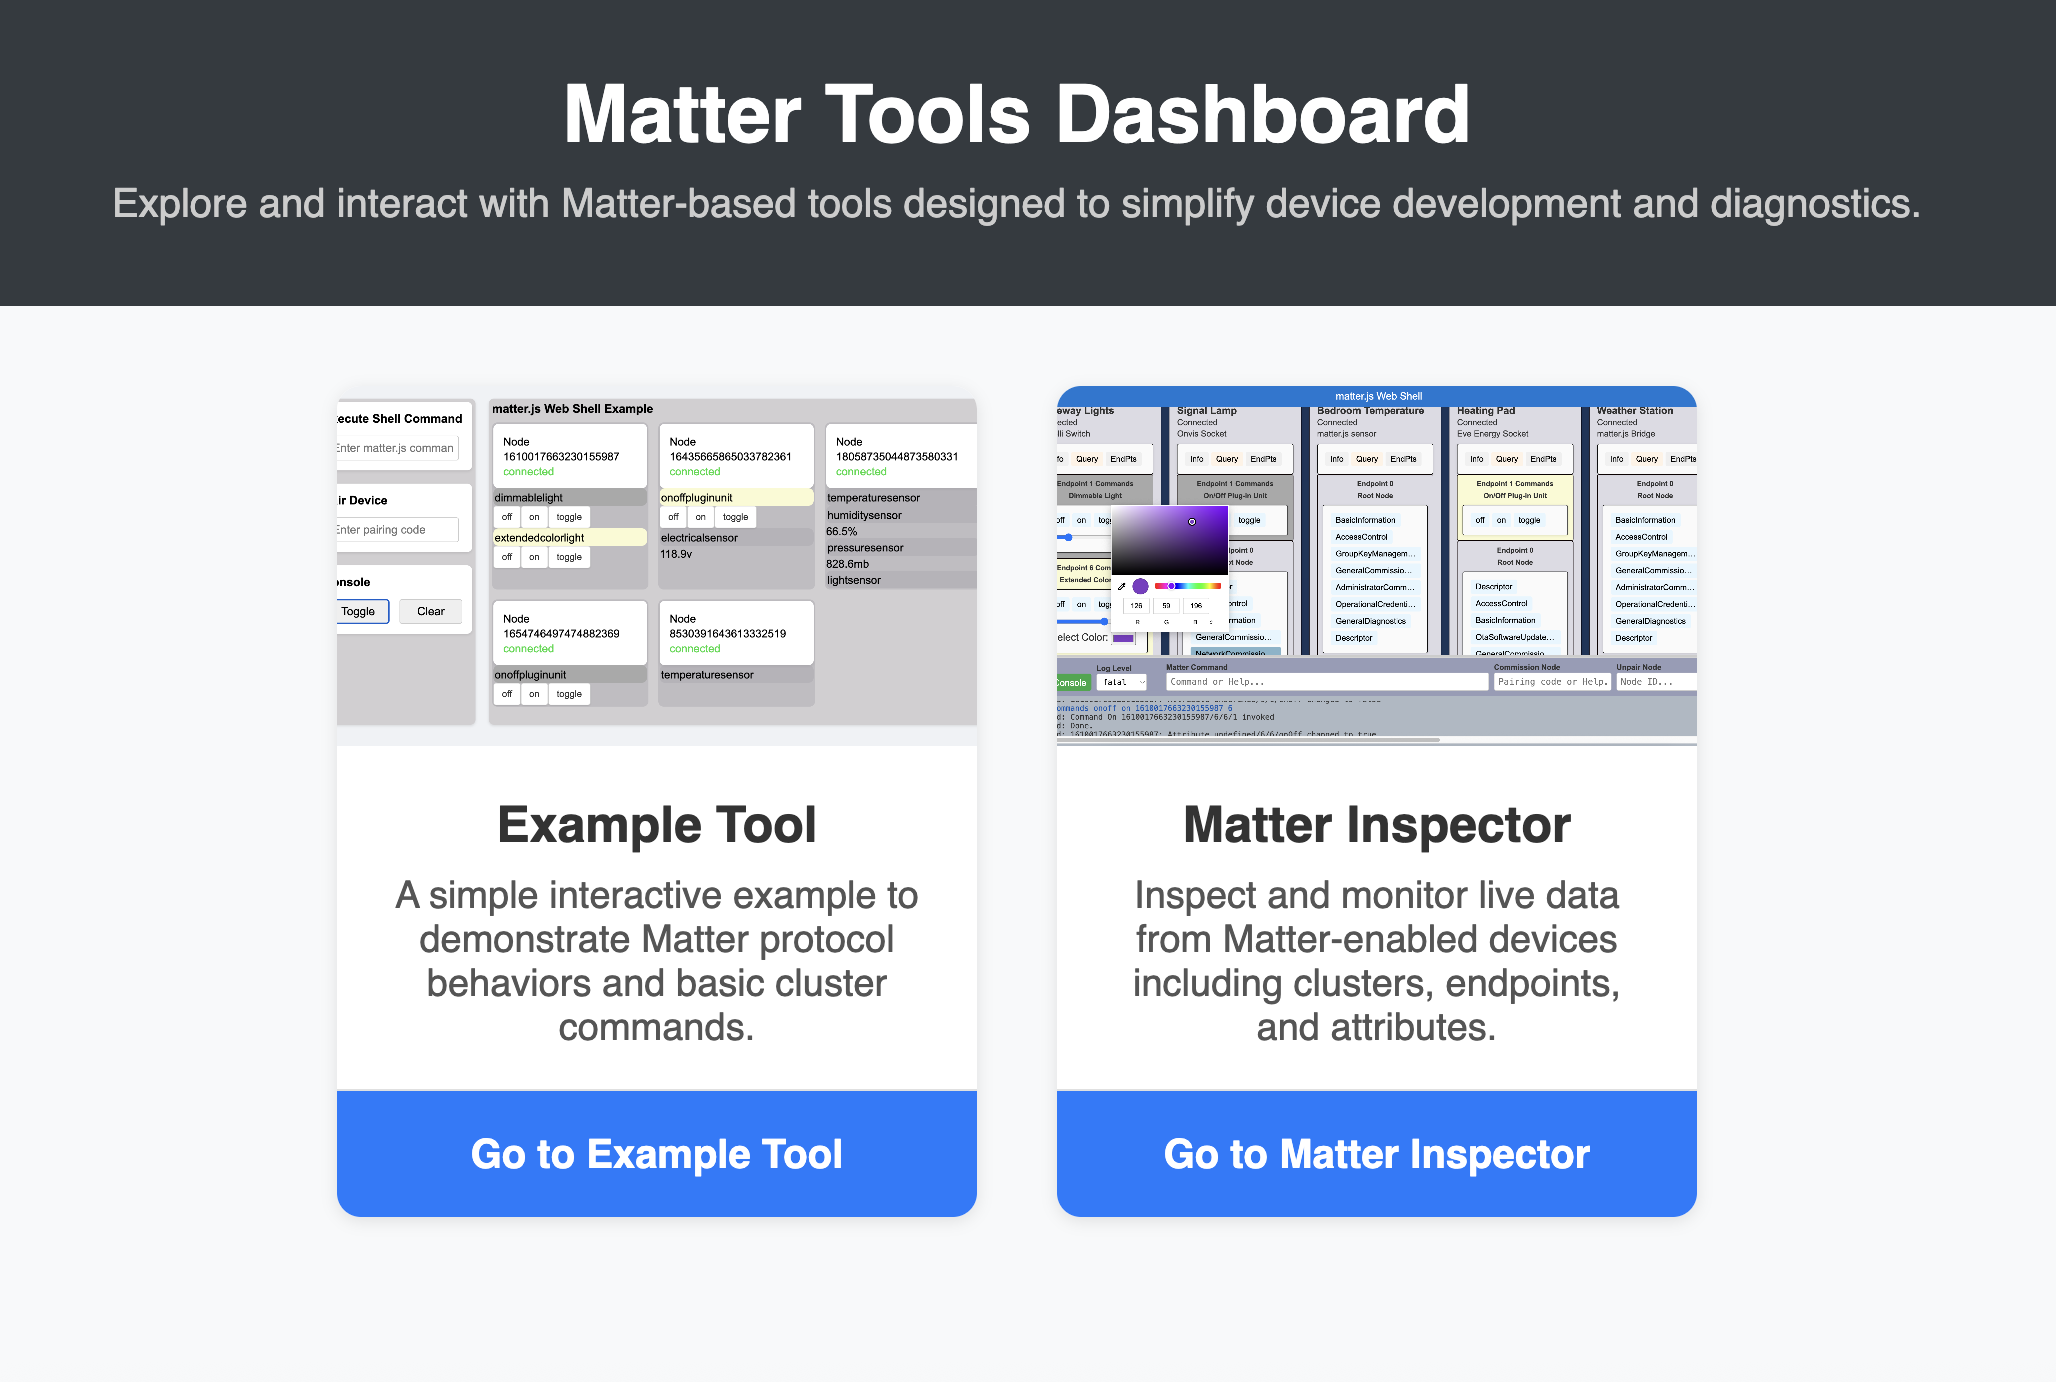
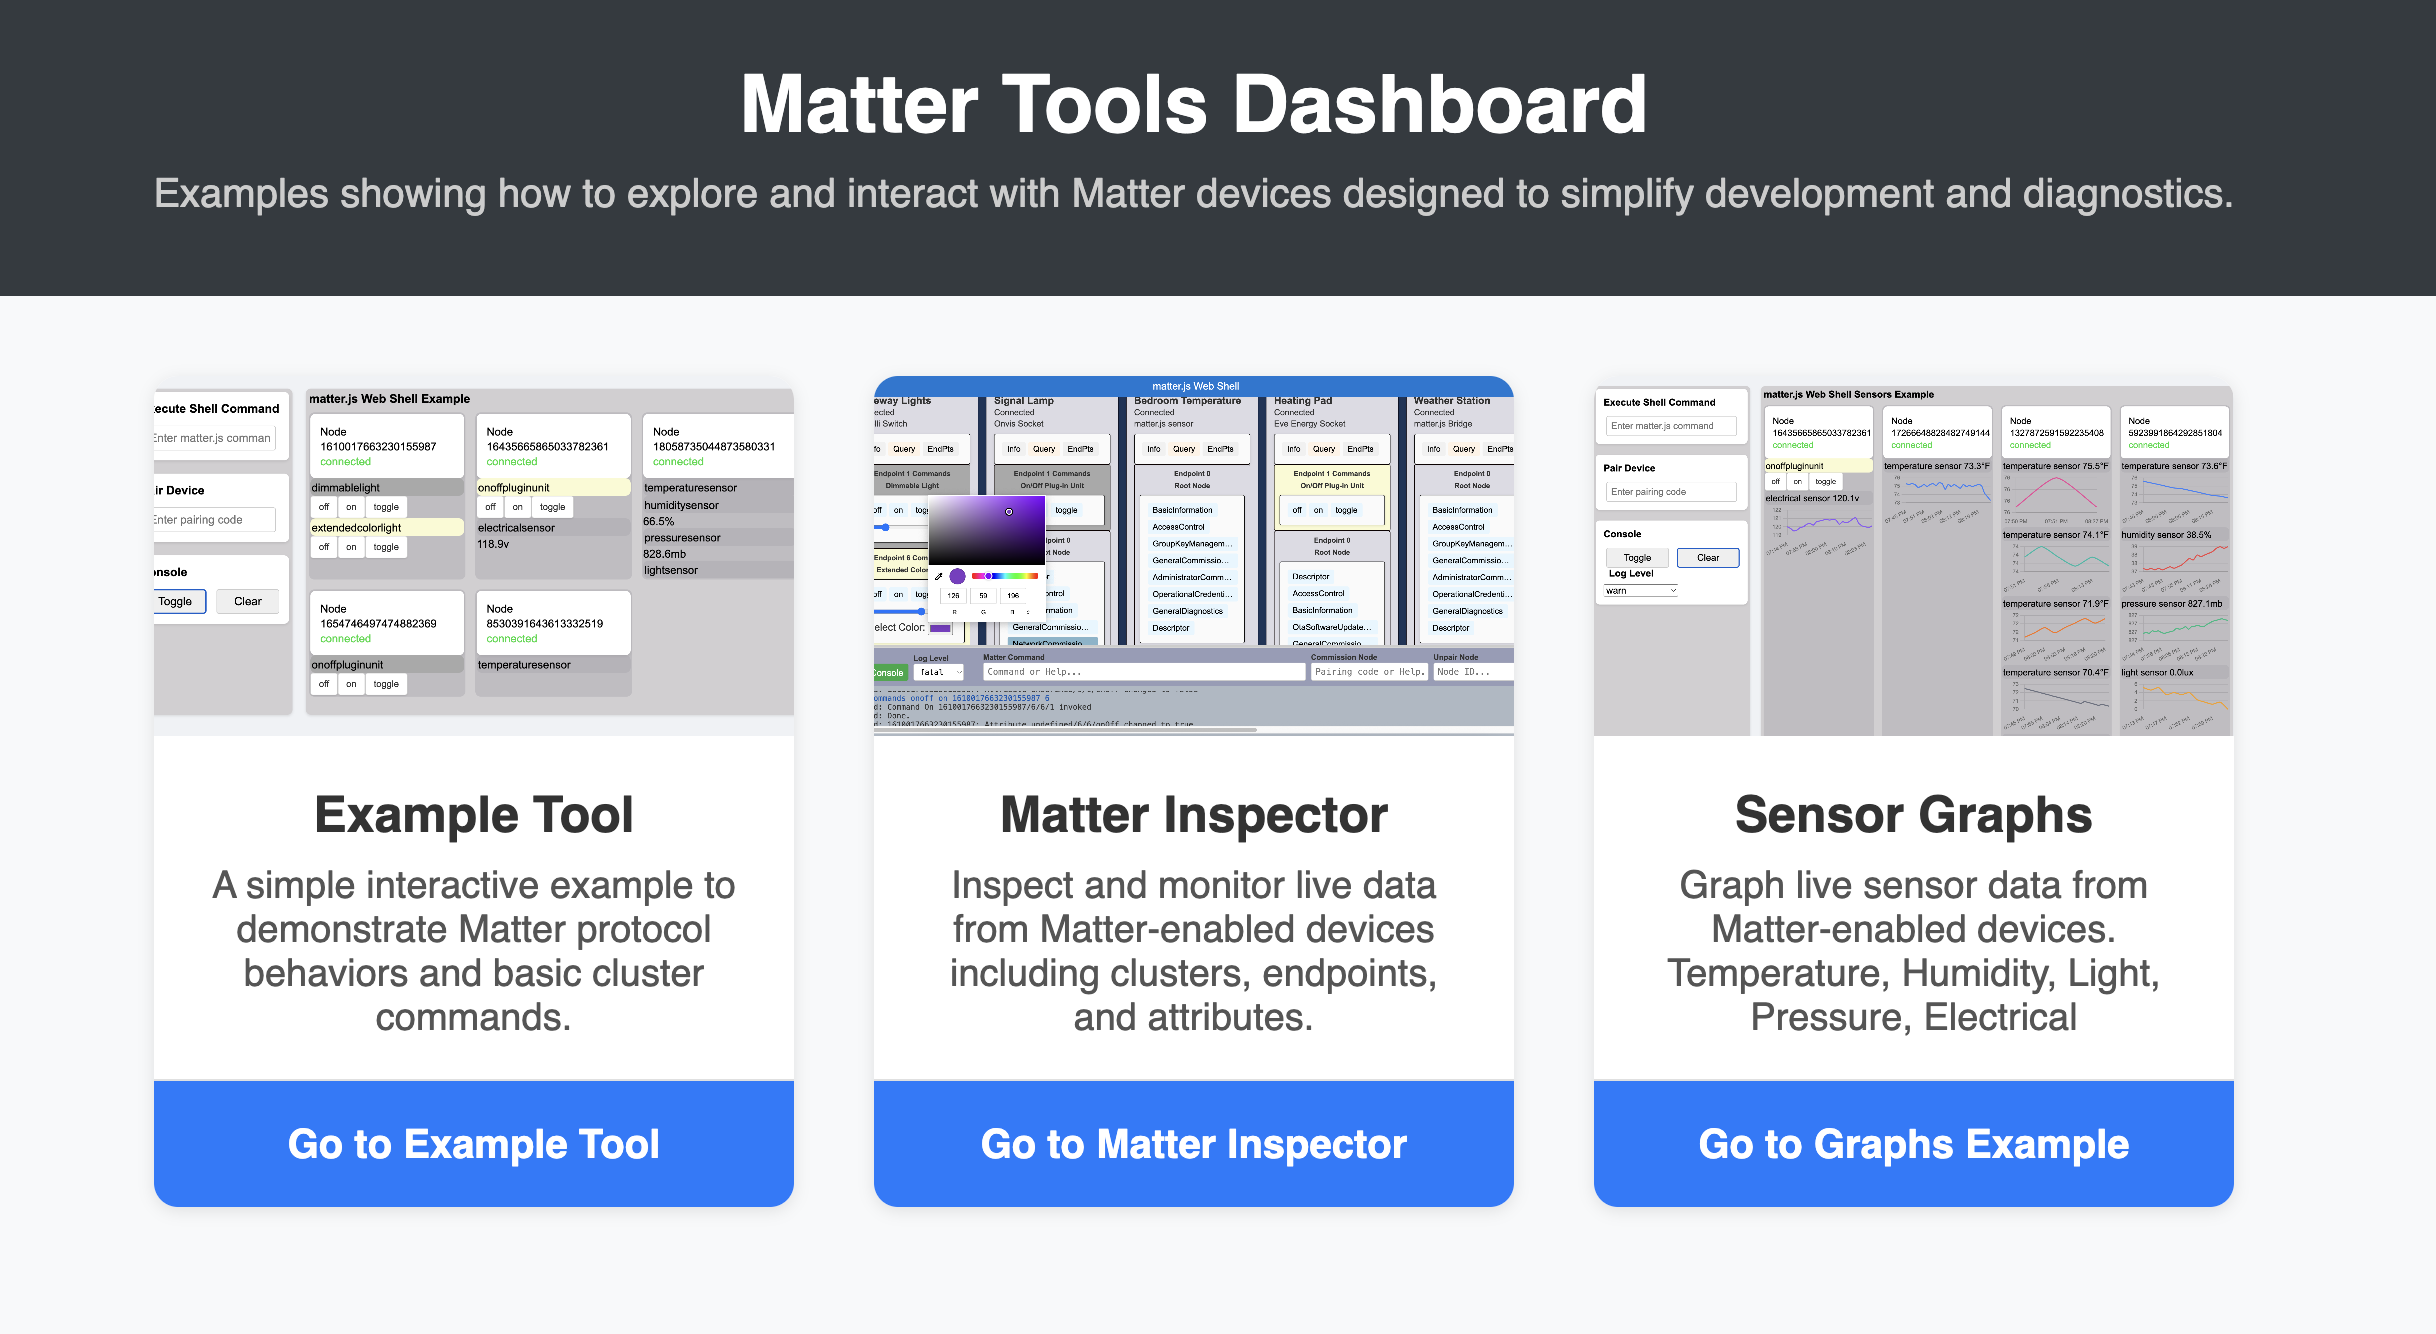
Update README for new example. Add updated image of index.html for graphs example

Changed region(s): [[0.0623, 0.584, 0.9339, 0.922], [0.0623, 0.2766, 0.9339, 0.5532], [0.0623, 0.0307, 0.9339, 0.1844]]

diff --git a/README.md b/README.md
@@ -12,10 +12,10 @@ This repository contains examples of Matter Controllers that utilize a web socke
  - Visit http://localhost:3000/ in your browser
  
 
-## Select From Two Example Controllers
+## Select From Three Example Controllers
 
  
-![enter image description here](https://raw.githubusercontent.com/JimBuzbee/matter-controller/main/public/index.png)
+![image of example selection page](https://raw.githubusercontent.com/JimBuzbee/matter-controller/main/public/index.png)
 
 
 Once the webshell server is running, the easiest want to get started with a Matter device, is to use one that has already been commissioned via Google/Apple/Home Assistant/etc. In the appropriate controller, locate the menu for sharing or linking the device with another app. When given a pairing code, enter it in the webshell form.  Once entered, after a short delay a visualization should pop up in the browser user interface. If it doesn't, check the console for messages.
@@ -23,15 +23,20 @@ Once the webshell server is running, the easiest want to get started with a Matt
 If you want to commission a Matter device that hasn't already been set up, see the matter.js shell documentation regarding bluetooth libraries for your system, start the webshell with a "--ble" parameter,  and then when entering the paring code in the browser UI, add --ble, e.g. "0123456789  --ble"
  
 ## MatterInspector.html
-![enter image description here](https://raw.githubusercontent.com/JimBuzbee/matter-controller/main/public/MatterExplorer.png)
+![image of Matter Inspector example](https://raw.githubusercontent.com/JimBuzbee/matter-controller/main/public/MatterExplorer.png)
 This example creates a "tile" for each previously or newly commissioned Matter node. The tile shows the node ID, description, status, commands (for some devices),  and the standard components of a Matter device: endpoints,  clusters, and attributes. The name and description of each tile can be persistently changed by clicking and entering the desired value. To show the current state of cluster attributes, click the cluster name in an endpoint display.  As attributes are changed asynchronously, such as when sensors report new values or when a controller commands a light, the updated attribute value will be temporarily displayed underneath its associated cluster.
 
 ## Example.html
 
-![enter image description here](https://raw.githubusercontent.com/JimBuzbee/matter-controller/main/public/example.png)
+![image of example page](https://raw.githubusercontent.com/JimBuzbee/matter-controller/main/public/example.png)
 
 This is a minimal, single-file, standalone example showing interaction with Matter devices.  It is similar to MatterInspector, but with fewer options and interactions. It adds sensor value conversion, formatting and display.
 
+## Graph Example
+
+![image of graphs example](https://raw.githubusercontent.com/JimBuzbee/matter-controller/main/public/graphexample.png)
+
+This is a minimal example showing how to generate graphs based off of Matter sensors. In reality, it is probably not all that useful as it only collects data while the page is displayed, so historic values will be lost when the page is closed.  To implement it properly, the data should be stored on the server-side and fetched when the page is loaded. This example shows Temperature, Humidity, Air pressure, Light and Electrical sensors.
  ## Details TBD
 running...
 http options...
